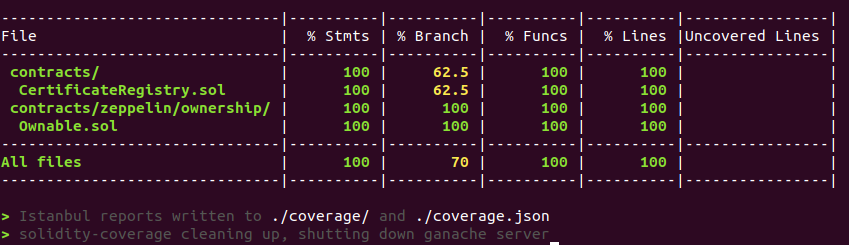
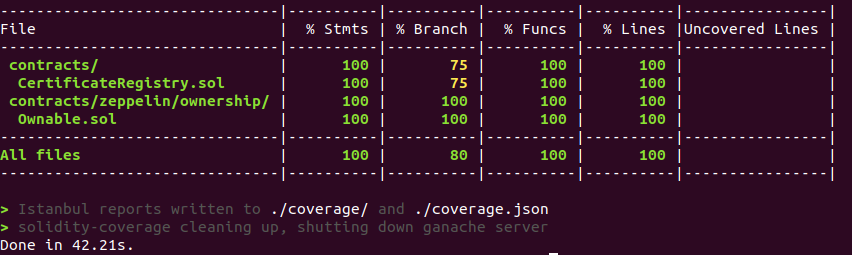
feat: optimise the test coverage and the BN return from truffl

diff --git a/test/CertificateRegistry.test.js b/test/CertificateRegistry.test.js
@@ -9,7 +9,7 @@ contract('CertificateRegistry', accounts => {
   let certificateRegistryInstance
 
[1 lines of base64/hex data omitted]
-  let _timeOfIssue = Math.floor((new Date).getTime() / 1000);
[1 lines of base64/hex data omitted]
 
 // Create a new instance of the contract before each test
   beforeEach('setup contract for each test', async () => {
@@ -40,12 +40,20 @@ describe('deployment', async () => {
       result = await certificateRegistryInstance.storeHash(hash1, { from: deployer })
     })
 
-    it('store certificate hash', async () => {
-    const expected = await web3.utils.toBN(_timeOfIssue)
+    it('should only allow contract creator to add hash', async () => {
+    const event = result.logs[0].args
+    const block = await web3.eth.getBlock('latest');
+    const BN = web3.utils.BN;
+
+    const expectedBlockNumber = block.number;
+    const expectedTimestamp = block.timestamp;
+    const actualBlockNumber = new BN(event.blockNumber).toString()
+    const actualTimestamp = new BN(event.timeOfIssue).toString()
+
       // SUCCESS
-      const event = result.logs[0].args
       assert.equal(event.issuer, deployer, 'issuer is correct')
-      // assert.equal(event.timeOfIssue, expected, 'time is correct')
+      assert.equal(actualTimestamp, expectedTimestamp, 'time is correct')
+      assert.equal(actualBlockNumber, expectedBlockNumber, 'blockNumber is correct')
       assert.equal(event.isStored, true, 'hash is not stored')
     })
 
@@ -54,7 +62,7 @@ describe('deployment', async () => {
       await certificateRegistryInstance.storeHash('', { from: deployer }).should.be.rejected;
     });
 
-    it('should not add hash when hash already exists', async () => {
+    it('should reject a hash if one is already stored for the supplied hash', async () => {
     await certificateRegistryInstance.storeHash(hash1, { from: deployer }).should.be.rejected;
     });
 
@@ -68,9 +76,14 @@ describe('deployment', async () => {
 
     before(async () => {
       validHash = await certificateRegistryInstance.verifyHash(hash1)
+      inValidHash = await certificateRegistryInstance.verifyHash(hash2)
+
     })
     it('should return true for valid document hash', async () => {
     assert.strictEqual(validHash, true, 'Document hash is valid')
+    });
+    it('should return false for invalid document hash', async () => {
+    assert.strictEqual(inValidHash, false, 'Document hash is invalid')
     });
   })
 })

diff --git a/README.md b/README.md
@@ -58,7 +58,7 @@ in the verifying window
  - <b>Web3.js</b> - (Ethereum JavaScript API: https://github.com/ethereum/web3.js/)
 - <b>Truffle Contract</b> -(Better Ethereum contract abstraction, for Node and the browser):https://www.npmjs.com/package/@truffle/contract
  - <b>MetaMask</b> - (A browser plugin which allows users to make transactions to Ethereum or other networks through browsers, eliminating the need for dedicated user interfaces for Ethereum or other networks: https://chrome.google.com/webstore/detail/metamask/nkbihfbeogaeaoehlefnkodbefgpgknn?hl=en)
-
+ - <b>OpenZeppelin Contracts</b> - OpenZeppelin Contracts is a library for secure smart contract development: https://github.com/OpenZeppelin/openzeppelin-contracts
  - <b>NodeJS</b> - (An open source and cross-platform runtime environment for executing JavaScript code outside of a browser: https://nodejs.org/en/),
  - <b>Angular</b> - (TypeScript-based open-source web application framework led by the Angular Team at Google and by a community of individuals and corporations: https://angular.io/).
 
